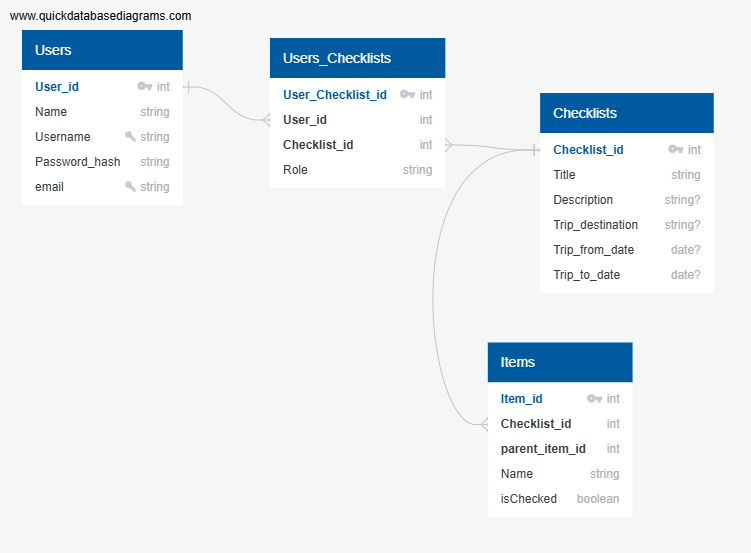
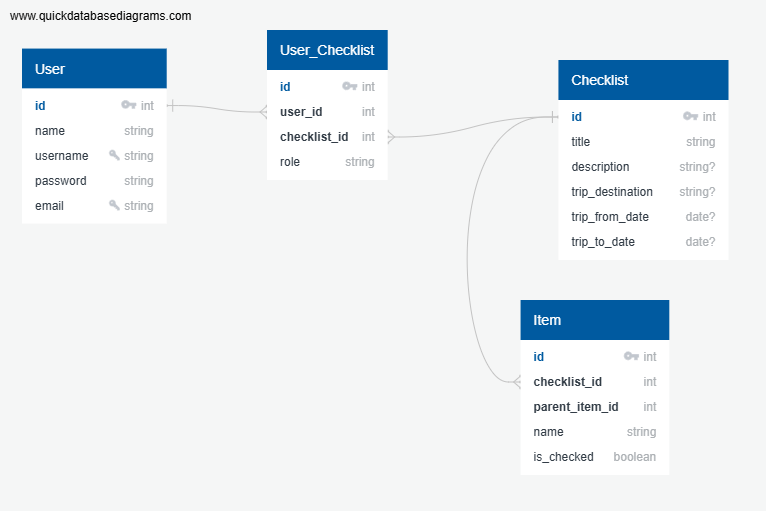
schema and readme

diff --git a/README.md b/README.md
@@ -1,5 +1,53 @@
-# Checklist
+## Database Schema
 
 Link to Schema: [Schema](https://github.com/solnguyen93/CapstoneTwo/blob/main/Capstone%20Two_%20Schema.png)
 
-Link to the API:
+### User Table
+
+-   **id**: Integer, primary key, autoincrement
+-   **name**: Text, not null
+-   **username**: Text, not null, unique
+-   **password**: Text, not null
+-   **email**: Text, not null, unique
+
+### Checklist Table
+
+-   **id**: Integer, primary key, autoincrement
+-   **title**: Text, not null, unique
+-   **description**: Text
+-   **trip_destination**: Text
+-   **trip_from_date**: DateTime
+-   **trip_to_date**: DateTime
+
+### User_Checklist Table
+
+-   **id**: Integer, primary key, autoincrement
+-   **user_id**: Integer, foreign key (references User.id), not null
+-   **checklist_id**: Integer, foreign key (references Checklist.id), not null
+-   **role**: Text, not null
+
+### Item Table
+
+-   **id**: Integer, primary key, autoincrement
+-   **checklist_id**: Integer, foreign key (references Checklist.id), not null
+-   **parent_item_id**: Integer, foreign key (references Item.id)
+-   **name**: Text, not null, unique
+-   **is_checked**: Boolean, not null, default FALSE
+
+### Relationships
+
+-   **Item to Checklist**: Item.checklist_id references Checklist.id
+-   **Item to Parent Item**: Item.parent_item_id references Item.id
+-   **User_Checklist to User**: User_Checklist.user_id references User.id
+-   **User_Checklist to Checklist**: User_Checklist.checklist_id references Checklist.id
+
+### Data Source
+
+#### APIs:
+
+-   [OpenWeather](https://openweathermap.org/) for weather predictions
+-   [Google Maps Platform](https://developers.google.com/maps/documentation/) for autocomplete functionality for destinations
+
+#### Websites:
+
+-   [visahq.com](https://www.visahq.com/) for visa prerequisites
